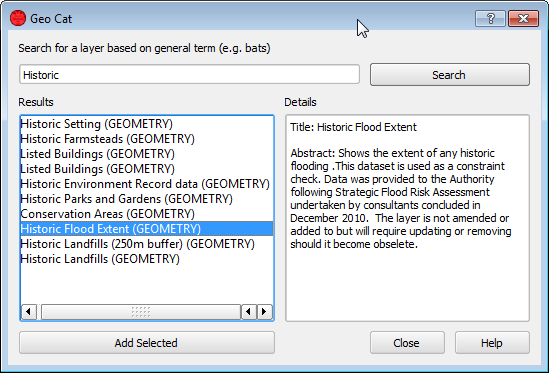
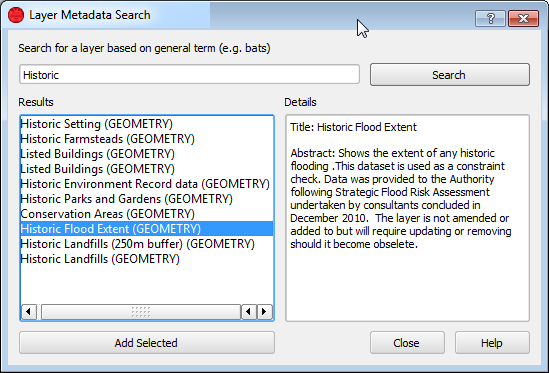
User-facing rename of plugin on request

Changed region(s): [[0.0, 0.0, 0.4026, 0.0885]]

diff --git a/GeoCat/README.html b/GeoCat/README.html
@@ -5,8 +5,8 @@
 Congratulations! You just built a plugin for QGIS!<br/><br />
 
 <div id='help' style='font-size:.9em;'>
-Your plugin <b>GeoCat</b> was created in:<br>
-&nbsp;&nbsp;<b>C:\Users\Pete\.qgis2\python\plugins\GeoCat</b>
+Your plugin <b>Layer Metadata Search</b> was created in:<br>
+&nbsp;&nbsp;<b>C:\Users\Pete\.qgis2\python\plugins\LayerMetadataSearch</b>
 <p>
 Your QGIS plugin directory is located at:<br>
 &nbsp;&nbsp;<b>C:/Users/Pete/.qgis2/python/plugins</b>

diff --git a/GeoCat/geo_cat.py b/GeoCat/geo_cat.py
@@ -1,7 +1,7 @@
 # -*- coding: utf-8 -*-
 """
 /***************************************************************************
- GeoCat
+ Layer Metadata Search
                                  A QGIS plugin
  Search for PostGIS tables using metadata
                               -------------------
@@ -64,9 +64,9 @@ class GeoCat:
 
         # Declare instance attributes
         self.actions = []
-        self.menu = self.tr(u'&GeoCat')
-        self.toolbar = self.iface.addToolBar(u'GeoCat')
-        self.toolbar.setObjectName(u'GeoCat')
+        self.menu = self.tr(u'&Layer Metadata Search')
+        self.toolbar = self.iface.addToolBar(u'Layer Metadata Search')
+        self.toolbar.setObjectName(u'Layer Metadata Search')
 
     # noinspection PyMethodMayBeStatic
     def tr(self, message):
@@ -81,7 +81,7 @@ class GeoCat:
         :rtype: QString
         """
         # noinspection PyTypeChecker,PyArgumentList,PyCallByClass
-        return QCoreApplication.translate('GeoCat', message)
+        return QCoreApplication.translate('Layer Metadata Search', message)
 
 
     def add_action(
@@ -168,7 +168,7 @@ class GeoCat:
             parent=self.iface.mainWindow())
         self.add_action(
             icon_path,
-            text=self.tr(u'Configure GeoCat'),
+            text=self.tr(u'Configure Layer Metadata Search'),
             callback=self.configure,
             parent=self.iface.mainWindow(),
             add_to_toolbar=False)
@@ -178,7 +178,7 @@ class GeoCat:
         """Removes the plugin menu item and icon from QGIS GUI."""
         for action in self.actions:
             self.iface.removePluginMenu(
-                self.tr(u'&GeoCat'),
+                self.tr(u'&Layer Metadata Search'),
                 action)
             self.iface.removeToolBarIcon(action)
         # remove the toolbar

diff --git a/GeoCat/geo_cat_dialog_base.py b/GeoCat/geo_cat_dialog_base.py
@@ -2,7 +2,7 @@
 
 # Form implementation generated from reading ui file 'geo_cat_dialog_base.ui'
 #
-# Created: Wed Nov 25 10:29:25 2015
+# Created: Fri Dec 04 17:11:53 2015
 #      by: PyQt4 UI code generator 4.10.2
 #
 # WARNING! All changes made in this file will be lost!
@@ -93,7 +93,7 @@ class Ui_GeoCatDialogBase(object):
         GeoCatDialogBase.setTabOrder(self.closePushButton, self.helpPushButton)
 
     def retranslateUi(self, GeoCatDialogBase):
-        GeoCatDialogBase.setWindowTitle(_translate("GeoCatDialogBase", "GeoCat", None))
+        GeoCatDialogBase.setWindowTitle(_translate("GeoCatDialogBase", "Layer Metadata Search", None))
         self.descriptionLabel.setText(_translate("GeoCatDialogBase", "Search for a layer based on general term (e.g. bats)", None))
         self.searchPushButton.setText(_translate("GeoCatDialogBase", "Search", None))
         self.resultsLabel.setText(_translate("GeoCatDialogBase", "Results", None))

diff --git a/GeoCat/config_dialog_base.py b/GeoCat/config_dialog_base.py
@@ -2,7 +2,7 @@
 
 # Form implementation generated from reading ui file 'config_dialog_base.ui'
 #
-# Created: Wed Nov 25 10:29:56 2015
+# Created: Fri Dec 04 17:11:37 2015
 #      by: PyQt4 UI code generator 4.10.2
 #
 # WARNING! All changes made in this file will be lost!
@@ -92,7 +92,7 @@ class Ui_Dialog(object):
         QtCore.QMetaObject.connectSlotsByName(Dialog)
 
     def retranslateUi(self, Dialog):
-        Dialog.setWindowTitle(_translate("Dialog", "GeoCat Configuration", None))
+        Dialog.setWindowTitle(_translate("Dialog", "Layer Metadata Search Configuration", None))
         self.postGisConnectionLabel.setText(_translate("Dialog", "PostGIS Connection", None))
         self.MetadataTableSchemaLabel.setText(_translate("Dialog", "Metadata Table Schema", None))
         self.metadataTableNameLabel.setText(_translate("Dialog", "Metadata Table Name", None))

diff --git a/GeoCat/geo_cat_config_dialog.py b/GeoCat/geo_cat_config_dialog.py
@@ -1,7 +1,7 @@
 # -*- coding: utf-8 -*-
 """
 /***************************************************************************
- GeoCatDialog
+ Layer Metadata Search
                                  A QGIS plugin
  Search for PostGIS tables using metadata
                              -------------------

diff --git a/GeoCat/geo_cat_dialog.py b/GeoCat/geo_cat_dialog.py
@@ -1,7 +1,7 @@
 # -*- coding: utf-8 -*-
 """
 /***************************************************************************
- GeoCatDialog
+ Layer Metadata Search
                                  A QGIS plugin
  Search for PostGIS tables using metadata
                              -------------------

diff --git a/GeoCat/__init__.py b/GeoCat/__init__.py
@@ -1,7 +1,7 @@
 # -*- coding: utf-8 -*-
 """
 /***************************************************************************
- GeoCat
+ Layer Metadata Search
                                  A QGIS plugin
  Search for PostGIS tables using metadata
                              -------------------

diff --git a/GeoCat/resources_rc.py b/GeoCat/resources_rc.py
@@ -2,7 +2,7 @@
 
 # Resource object code
 #
-# Created: Wed 25. Nov 10:25:01 2015
+# Created: Fri 4. Dec 17:12:16 2015
 #      by: The Resource Compiler for PyQt (Qt v4.8.5)
 #
 # WARNING! All changes made in this file will be lost!

diff --git a/README.md b/README.md
@@ -1,12 +1,12 @@
-# GeoCat
+# Layer Metadata Search
 
-GeoCAT is short name for Geographic Information Systems Catalogue and is a plugin used to search GIS metadata. GeoCAT can be used to search data describing the "who, what, where, when and how" of map layers. GeoCAT was developed on behalf of Dartmoor National Park, UK.
+Layer Metadata Search is a plugin used to search GIS metadata. Layer Metadata Search can be used to search data describing the "who, what, where, when and how" of map layers. Layer Metadata Search was developed on behalf of Dartmoor National Park, UK.
 
 ![](./Images/geo_cat.png)
 
-GeoCat requires metadata to be stored in a PostgreSQL table with the following minimum information. Table column names need not be exactly the same as those described below. 
+Layer Metadata Search requires metadata to be stored in a PostgreSQL table with the following minimum information. Table column names need not be exactly the same as those described below.
 
-**title** - Human readable title of the PostGIS layer, e.g. Ordnance Survey Open Roads.  
+**title** - Human readable title of the PostGIS layer, e.g. Ordnance Survey Open Roads.
 
 **abstract** - An abstract for the PostGIS layer, e.g. A nationally consistent, high-level and shareable view of GB's road network. OS Open Roads is a connected road network for Great Britain. It contains all classified roads (such as motorways and A & B roads) as well as officially named unclassified roads.
 
@@ -14,11 +14,11 @@ GeoCat requires metadata to be stored in a PostgreSQL table with the following m
 
 **table** - The name of the PostGIS table.
 
-Once configured, GeoCat will search for PostGIS tables using both the title and abstract metadata fields.
+Once configured, Layer Metadata Search will search for PostGIS tables using both the title and abstract metadata fields.
 
 ## Configuration
 
-GeoCat can be configured in QGIS via `Plugins` > `GeoCat` > `Configure GeoCat` which will open the following dialog:
+Layer Metadata Search can be configured in QGIS via `Plugins` > `Layer Metadata Search` > `Configure Layer Metadata Search` which will open the following dialog:
 
 ![](./Images/geo_cat_config.png)
 
@@ -28,8 +28,8 @@ This section describes how to set up a PostgreSQL table for the matadata.
 
 First, create a new metadata table and schema if required:
 
-	CREATE SCHEMA geocat;
-	CREATE TABLE geocat.metadata
+	CREATE SCHEMA layer_metadata_search;
+	CREATE TABLE layer_metadata_search.metadata
 	(
 		id serial NOT NULL,
 		name text,
@@ -42,15 +42,15 @@ First, create a new metadata table and schema if required:
 		OIDS=FALSE
 	);
 
-With the table created we can automatically populate it with layers we already have in our database. The following command will add rows to the metadata table for any tables not already featured in the metadata table: 
+With the table created we can automatically populate it with layers we already have in our database. The following command will add rows to the metadata table for any tables not already featured in the metadata table:
 
-	INSERT INTO geocat.metadata
+	INSERT INTO layer_metadata_search.metadata
 		(schema, "table")
 	SELECT
 		f_table_schema,
 		f_table_name
 	FROM
-		geometry_columns LEFT OUTER JOIN geocat.metadata ON 
+		geometry_columns LEFT OUTER JOIN layer_metadata_search.metadata ON
 			f_table_schema = "schema" AND 
 			f_table_name = "table"
 	WHERE
